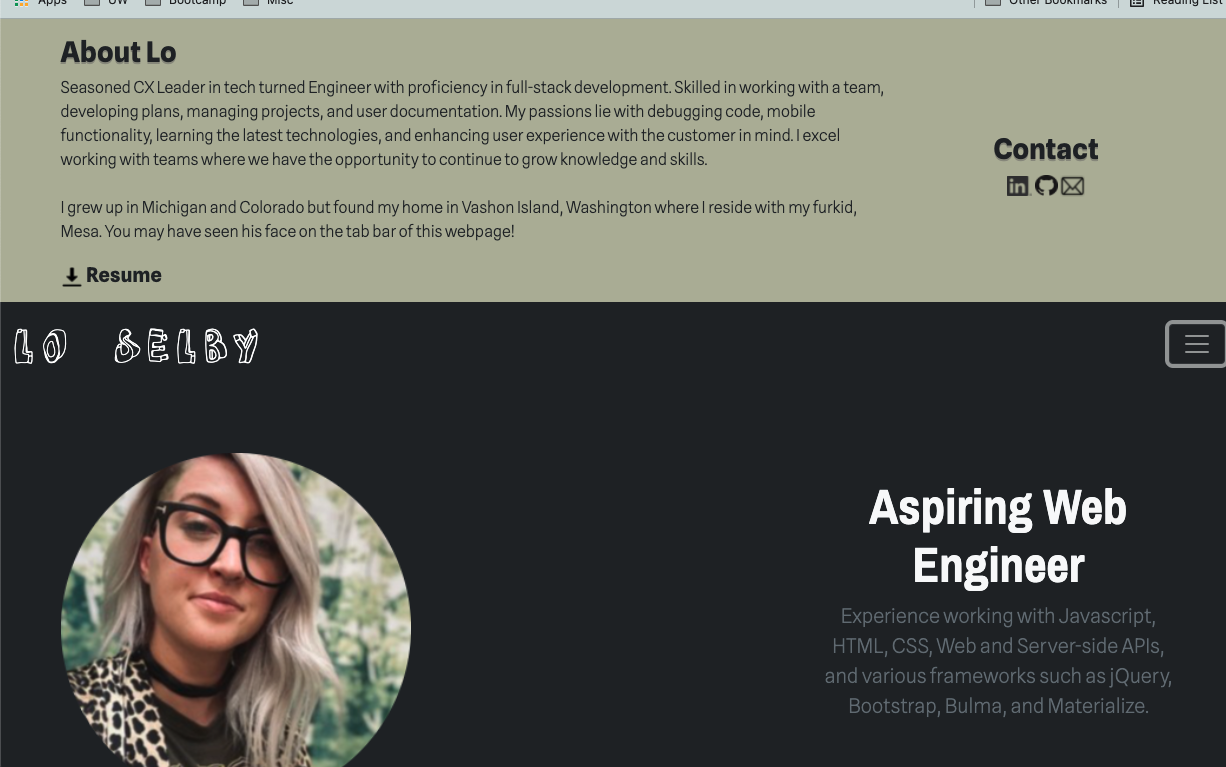
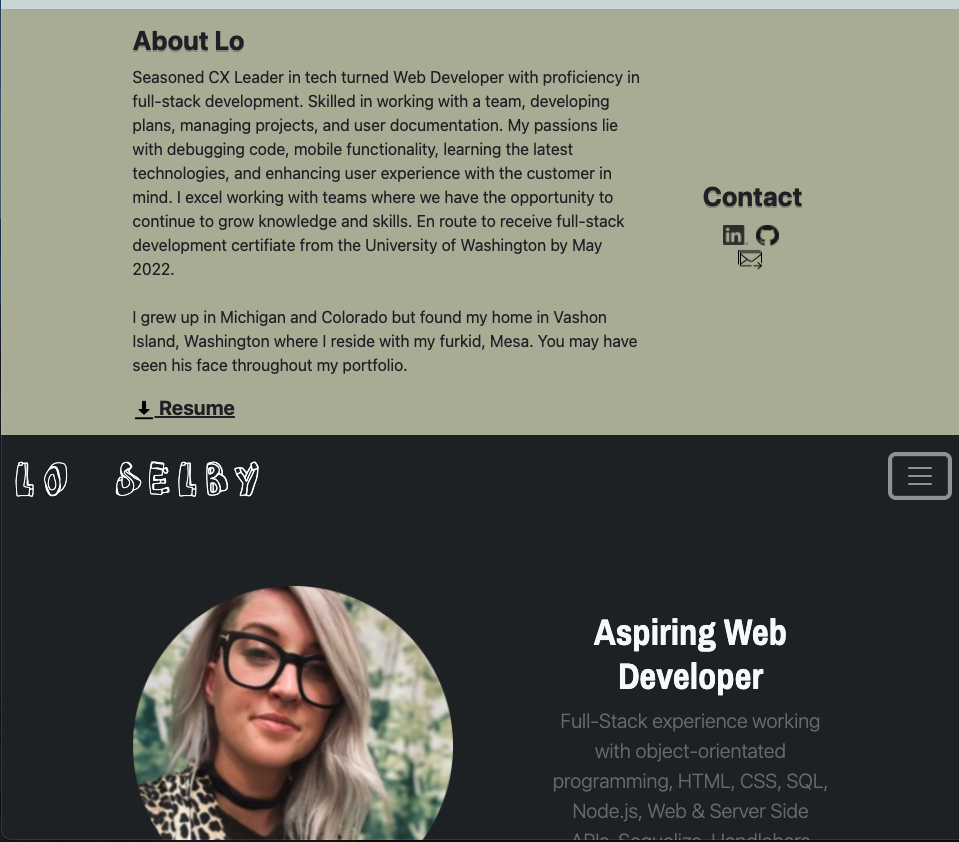
final readme edits -added new images - updated live page link - updated about section

diff --git a/README.md b/README.md
@@ -1,25 +1,26 @@
 # Lo Selby | Web Engineer | Portfolio
+
 [![License: MIT](https://img.shields.io/badge/License-MIT-green.svg)](https://opensource.org/licenses/MIT)
 
 
-
-https://lonewolfco.github.io/loselby
+Live Page: https://lonewolfco.github.io/lonewolf
 
 
 ## About Lo
 Seasoned CX Leader in tech turned Engineer with proficiency in full-stack development. Skilled in working with a team, developing plans, managing projects, and user documentation. My passions lie with debugging code, mobile functionality, learning the latest technologies, and enhancing user experience with the customer in mind.
 
+Lo's portfolio is designed with minimilistic design in mind with touches of color that compliment the header image to tie it in, in a thoughtful approach. 
 
 
 ## Included in Portfolio
 
-* At least 3 Projects with Video Examples
+* At least 6 Projects with Video Examples
 
-* Links to GitHub Profile, Repos, & LinkedIn
+* Links to GitHub Profile, Repos, LinkedIn, and to email Lo directly
 
 * Link to Download Resume or open in new tab
 
-* About Lo Page with methods of contacting
+* About Lo Page with links including various methods of contacting
 
 
 ## Languages Used
@@ -31,9 +32,12 @@ Seasoned CX Leader in tech turned Engineer with proficiency in full-stack develo
 
 ## Mockup
 
-![The portfolio uses dynamic buttons to slide down the About and Contact Me section anda  scroll up button.](./src/assets/images/portfolio1.png)
+![The portfolio uses dynamic buttons to slide down the About/Contact Me section and features bold header with the designers photo and heading](./src/assets/images/portfolio1.png)
 
-![The portfolio uses dynamic buttons to slide down the About and Contact Me section anda  scroll up button.](./src/assets/images/portfolio3.png)
+
+![The portfolio contains a project section to display the designers work.](./src/assets/images/portfolio4.png)
+
+![After the projects section you will see a footer with links to the designer's github, linkedin, and a link to email the designer directly.](./src/assets/images/portfolio3.png)
 
 ## License
 MIT License
